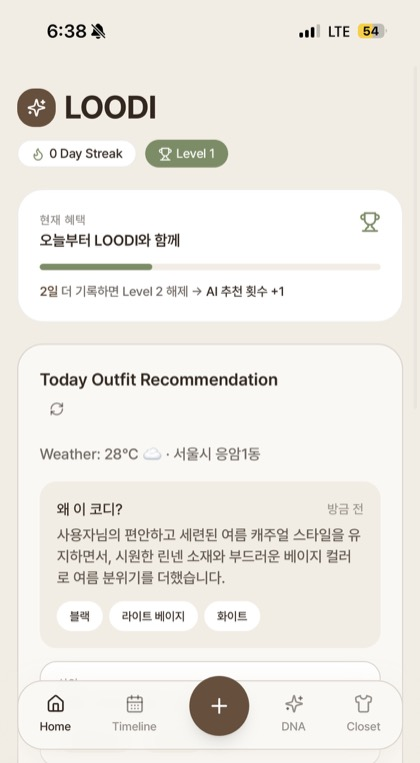
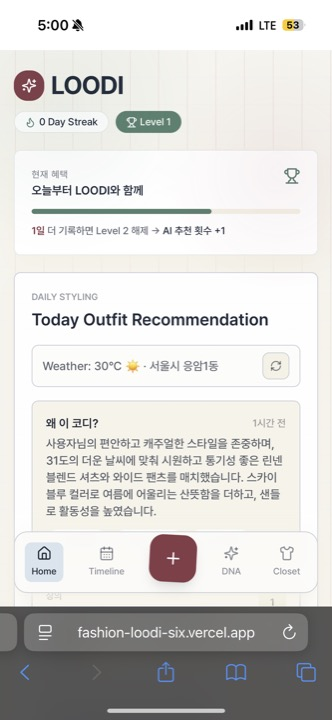
Update README screenshots and feature overview

diff --git a/README.md b/README.md
@@ -2,12 +2,14 @@
 
 > Your Style, Recorded.
 
-**LOODI**는 매일의 착장을 사진으로 기록하면 AI가 의류 아이템, 컬러, 스타일, 무드를 분석하고 개인화된 코디 추천과 Style DNA를 제공하는 모바일 중심 패션 다이어리 웹앱입니다.
+**LOODI**는 매일의 착장을 사진으로 기록하고, AI 분석 결과를 바탕으로 오늘의 코디 추천, Style DNA, 아이템 옷장, 프로필 공유까지 이어지는 모바일 중심 패션 다이어리 웹앱입니다.
 
 <p align="center">
-  <img src="./docs/assets/readme/home-recommendation.jpeg" width="260" alt="LOODI home and daily recommendation screen" />
+  <img src="./docs/assets/readme/home-recommendation.jpeg" width="250" alt="LOODI home recommendation screen" />
   &nbsp;&nbsp;
-  <img src="./docs/assets/readme/style-dna.jpeg" width="260" alt="LOODI style DNA screen" />
+  <img src="./docs/assets/readme/style-dna.jpeg" width="250" alt="LOODI style DNA screen" />
+  &nbsp;&nbsp;
+  <img src="./docs/assets/readme/closet-profile.jpeg" width="250" alt="LOODI closet profile screen" />
 </p>
 
 ## Overview
@@ -15,9 +17,9 @@
 | Category | Description |
 | --- | --- |
 | Project | AI 기반 패션 다이어리 웹앱 |
-| Goal | 착장 기록을 자동 분석하고, 누적 데이터로 개인 취향을 시각화 |
-| User Flow | 로그인 -> 착장 사진 업로드 -> AI 분석 -> 타임라인 저장 -> 추천/Style DNA 확인 |
-| Scope | 인증, 온보딩, AI 분석 API, 코디 추천 API, 타임라인, 옷장, Style DNA |
+| Goal | 착장 기록을 자동 분석하고, 누적 데이터로 개인 취향과 아이템 사용 흐름을 시각화 |
+| User Flow | 로그인/회원가입 -> 프로필 설정 -> 착장 사진 업로드 -> AI 분석 -> 타임라인 저장 -> 추천/Style DNA/Closet 확인 |
+| Scope | 인증, 프로필, 온보딩, AI 분석 API, 코디 추천 API, 타임라인, Style DNA, 옷장, 프로필 공유 |
 
 ## Tech Stack
 
@@ -35,11 +37,14 @@
 
 | Feature | What it does |
 | --- | --- |
+| Auth & Profile | 커머스 앱 스타일의 로그인/회원가입, 닉네임/이름/생년월일/성별 설정, 프로필 사진 저장 |
+| Daily Streak | 오늘 기록이 있어야 유지되는 일 단위 streak와 기록 날짜 기반 레벨 표시 |
 | AI Outfit Analysis | 착장 사진에서 아이템, 컬러, 스타일, 계절감, 무드를 자동 추출 |
-| Daily Recommendation | 날씨와 최근 기록을 기반으로 오늘 입기 좋은 코디 추천 |
+| Daily Recommendation | 날씨와 최근 기록을 기반으로 오늘 입기 좋은 코디와 쇼핑 검색 링크 추천 |
 | Outfit Timeline | 사진, 날씨, 무드, 태그, 메모를 날짜별 착장 기록으로 저장 |
-| Style DNA | 누적 착장 데이터를 기반으로 스타일 분포와 취향 패턴 시각화 |
+| Style DNA | 누적 착장 데이터를 기반으로 스타일 분포, 컬러 팔레트, 월별 스타일 흐름 시각화 |
 | Closet | 기록에서 감지된 의류 아이템을 카테고리별로 자동 정리 |
+| Profile Share | 저장된 룩 일부를 Grid View 형태로 미리 보고 네이티브 공유/링크 복사 |
 | Access Control | Supabase Auth 기반 로그인과 허용 계정 검증 |
 
 ## Feature Walkthrough
@@ -57,24 +62,38 @@
   </tr>
   <tr>
     <td>
-      홈 화면은 기록 스트릭, 레벨, 현재 혜택을 보여주고 사용자가 계속 기록하도록 동기를 제공합니다.
+      홈 화면은 일 단위 Day Streak, 기록 날짜 기반 Level, 오늘 날씨, AI 추천 이유를 한 화면에서 보여줍니다.
     </td>
     <td>
-      추천 결과는 추천 이유, 컬러 팔레트, 상의/하의/신발 아이템으로 나누어 사용자가 바로 코디를 이해할 수 있게 구성했습니다.
+      추천 결과는 상의, 하의, 신발 등 착장 단위로 구성되고 무신사/KREAM 검색 링크로 바로 이어집니다.
     </td>
   </tr>
 </table>
 
-### 2. AI Outfit Analysis
+### 2. Timeline Diary
 
 <table>
   <tr>
     <td width="40%" align="center">
-      <img src="./docs/assets/readme/ai-analysis.jpeg" width="260" alt="LOODI AI outfit analysis screen" />
+      <img src="./docs/assets/readme/timeline-calendar.jpeg" width="260" alt="LOODI timeline calendar screen" />
+    </td>
+    <td width="60%">
+      <b>착장을 단순 사진이 아니라 날짜와 맥락으로 저장합니다.</b><br /><br />
+      타임라인은 Calendar View와 Grid View를 제공하며, 날짜별 착장 기록을 사진, 날씨, 무드, 태그, AI 분석 문장, 직접 작성한 메모와 함께 관리할 수 있습니다.
+    </td>
+  </tr>
+</table>
+
+### 3. AI Outfit Analysis
+
+<table>
+  <tr>
+    <td width="40%" align="center">
+      <img src="./docs/assets/readme/home-recommendation.jpeg" width="260" alt="LOODI AI recommendation screen" />
     </td>
     <td width="60%">
       <b>사진 한 장으로 착장 정보를 구조화합니다.</b><br /><br />
-      Gemini API가 이미지 속 의류를 분석하고, 서버에서 결과를 일정한 구조로 정규화합니다. 사용자는 저장 전에 감지된 아이템과 컬러를 확인할 수 있습니다.
+      Gemini API가 이미지 속 의류를 분석하고, 서버에서 결과를 일정한 구조로 정규화합니다. 저장된 분석 결과는 추천, Style DNA, Closet 통계에 재사용됩니다.
       <br /><br />
       <code>items</code>, <code>colors</code>, <code>style</code>, <code>season</code>, <code>mood</code>, <code>description</code> 형태로 정리해 프론트엔드가 항상 같은 데이터 구조를 다룰 수 있게 했습니다.
     </td>
@@ -86,53 +105,54 @@
   "items": [
     { "category": "상의", "name": "다크 블루 반팔 데님 셔츠" },
     { "category": "하의", "name": "라이트 브라운 와이드 팬츠" },
-    { "category": "신발", "name": "오프화이트 스니커즈" }
+    { "category": "신발", "name": "다크 브라운 레더 샌들" }
   ],
-  "colors": ["다크 블루", "라이트 브라운", "오프화이트"],
-  "style": ["캐주얼"],
+  "colors": ["다크 블루", "라이트 그레이", "라이트 브라운", "블랙"],
+  "style": ["Casual", "Vintage", "Minimal"],
   "season": "여름",
-  "mood": ["편안한"]
+  "mood": ["편안한", "캐주얼"]
 }
 ```
-
-### 3. Timeline Diary
-
-<table>
-  <tr>
-    <td width="40%" align="center">
-      <img src="./docs/assets/readme/timeline-detail.jpeg" width="260" alt="LOODI timeline detail screen" />
-    </td>
-    <td width="60%">
-      <b>착장을 단순 사진이 아니라 맥락과 함께 저장합니다.</b><br /><br />
-      타임라인에서는 날짜별 착장 기록을 확인하고, 사진과 함께 저장 시간, 날씨, 무드, 태그, AI 분석 문장, 직접 작성한 메모를 관리할 수 있습니다.
-    </td>
-  </tr>
-</table>
 
 ### 4. Style DNA
 
 <table>
   <tr>
-    <td width="40%" align="center">
-      <img src="./docs/assets/readme/style-dna.jpeg" width="260" alt="LOODI Style DNA screen" />
+    <td width="33%" align="center">
+      <img src="./docs/assets/readme/style-dna.jpeg" width="230" alt="LOODI Style DNA signature chart" />
     </td>
-    <td width="60%">
+    <td width="33%" align="center">
+      <img src="./docs/assets/readme/style-dna-palette.jpeg" width="230" alt="LOODI Style DNA palette screen" />
+    </td>
+    <td width="33%" align="center">
+      <img src="./docs/assets/readme/style-evolution.jpeg" width="230" alt="LOODI Style DNA monthly evolution screen" />
+    </td>
+  </tr>
+  <tr>
+    <td colspan="3">
       <b>기록이 쌓일수록 취향이 데이터로 보입니다.</b><br /><br />
-      누적된 착장 기록에서 스타일 태그를 집계해 Casual, Vintage, Minimal 같은 스타일 비율을 시각화합니다. 사용자는 본인이 자주 입는 무드와 스타일 흐름을 한눈에 확인할 수 있습니다.
+      누적된 착장 기록에서 스타일 태그와 컬러를 집계해 Casual, Vintage, Minimal 같은 스타일 비율과 자주 등장한 컬러 팔레트, 월별 스타일 흐름을 시각화합니다.
     </td>
   </tr>
 </table>
 
-### 5. Closet
+### 5. Closet & Profile
 
 <table>
   <tr>
-    <td width="40%" align="center">
-      <img src="./docs/assets/readme/closet.jpeg" width="260" alt="LOODI closet screen" />
+    <td width="50%" align="center">
+      <img src="./docs/assets/readme/closet-profile.jpeg" width="260" alt="LOODI closet profile screen" />
     </td>
-    <td width="60%">
-      <b>AI가 감지한 아이템을 자동으로 옷장화합니다.</b><br /><br />
-      타임라인 기록에서 발견된 상의, 하의, 아우터, 신발 등을 카테고리별로 모아 보여줍니다. 반복적으로 등장한 아이템은 저장 횟수와 함께 확인할 수 있어 실제 착장 데이터 기반의 옷장 역할을 합니다.
+    <td width="50%" align="center">
+      <img src="./docs/assets/readme/closet-items.jpeg" width="260" alt="LOODI closet item statistics screen" />
+    </td>
+  </tr>
+  <tr>
+    <td>
+      Closet 상단에서는 닉네임, 이름, 프로필 사진, 프로필 관리, 프로필 공유, 문의하기 진입을 제공합니다.
+    </td>
+    <td>
+      타임라인 기록에서 발견된 상의, 하의, 아우터, 신발 등을 카테고리별로 모아 보여주고 반복 등장 횟수를 표시합니다.
     </td>
   </tr>
 </table>
@@ -150,6 +170,15 @@ AI 응답은 매번 완전히 동일하지 않기 때문에, API Route에서 응
 - 빈 배열과 빈 문자열 정리
 - 프론트엔드가 사용하는 고정 응답 구조로 반환
 
+### Record-Based Personalization
+
+착장 기록은 저장에서 끝나지 않고 추천과 분석의 입력 데이터로 재사용됩니다. 최근 기록, 감지된 아이템, 컬러, 스타일 태그를 바탕으로 홈 추천, Style DNA, Closet이 동적으로 구성됩니다.
+
+- Day Streak은 오늘 기록이 있어야 유지되는 일 단위 계산
+- 레벨은 전체 기록 수가 아니라 기록한 날짜 수 기준으로 산정
+- 같은 날 여러 번 기록해도 streak와 레벨 날짜 수는 1일로 계산
+- 프로필 사진과 다이어리 기록은 사용자별 LocalStorage key로 분리 저장
+
 ### Reliability Handling
 
 외부 AI API 호출 중 일시적인 실패가 발생할 수 있어 서버 레벨에서 실패율을 줄이는 방어 로직을 두었습니다.
@@ -158,10 +187,6 @@ AI 응답은 매번 완전히 동일하지 않기 때문에, API Route에서 응
 - 특정 모델 실패 시 다른 Gemini 모델로 fallback
 - API 실패 시 사용자에게 보여줄 수 있는 안정적인 오류 메시지 반환
 - 인증된 사용자와 허용 계정만 AI API를 호출하도록 제한
-
-### Personalization From Records
-
-착장 기록은 저장에서 끝나지 않고 추천과 분석의 입력 데이터로 재사용됩니다. 최근 기록, 감지된 아이템, 컬러, 스타일 태그를 바탕으로 홈 추천과 Style DNA가 동적으로 구성됩니다.
 
 ## Project Structure
 
@@ -172,6 +197,7 @@ app/
     recommend-outfit/     # 개인화 코디 추천 API
     contact-chat/         # LOODI AI 문의 챗봇 API
   onboarding/             # 온보딩, 사진 업로드, AI 분석 플로우
+  profile/setup/          # 닉네임, 이름, 개인정보 설정
   (main)/                 # Home, Record, Timeline, DNA, Closet
 components/
   auth/                   # 접근 제어 컴포넌트
@@ -182,7 +208,7 @@ lib/
   auth-identifier.ts      # 아이디를 Supabase Auth 이메일 형식으로 변환
   authenticated-fetch.ts  # 로그인 토큰 포함 API 요청
   onboarding-analysis-images.ts
-  outfit-diary.ts
+  outfit-diary.ts         # 다이어리 저장, streak, level 계산
 ```
 
 ## Local Run
